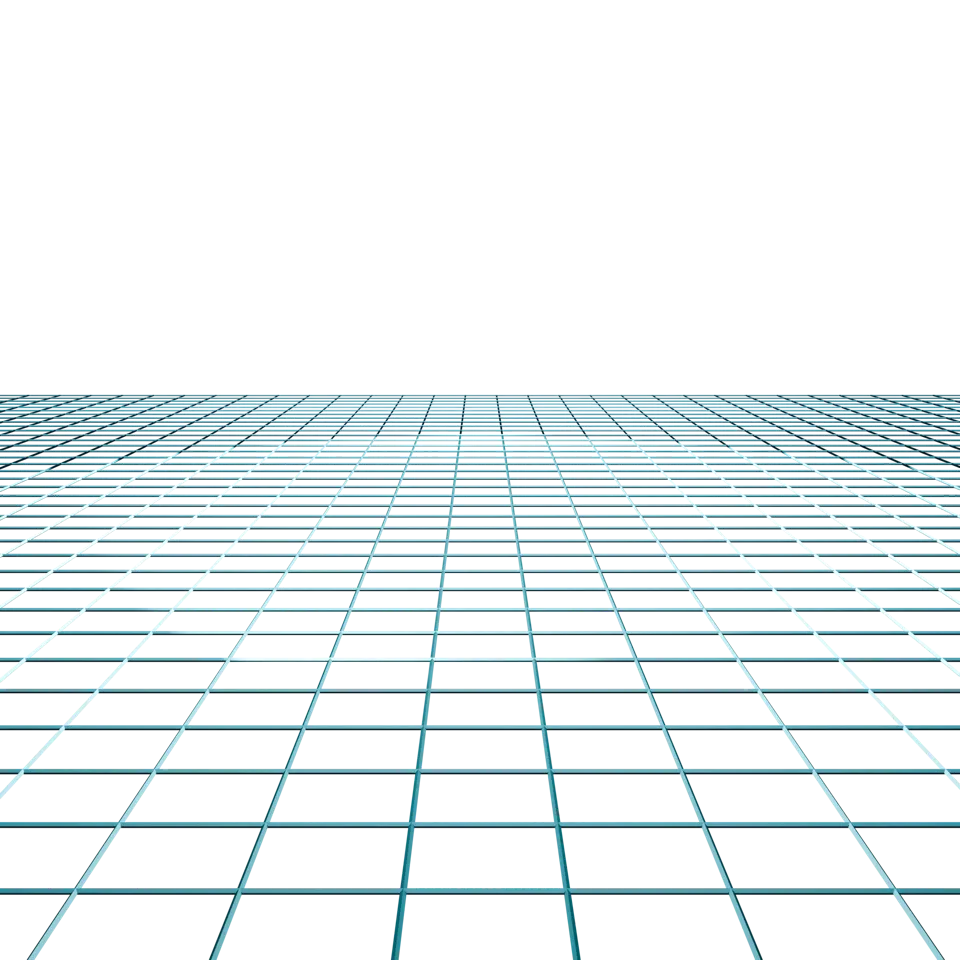
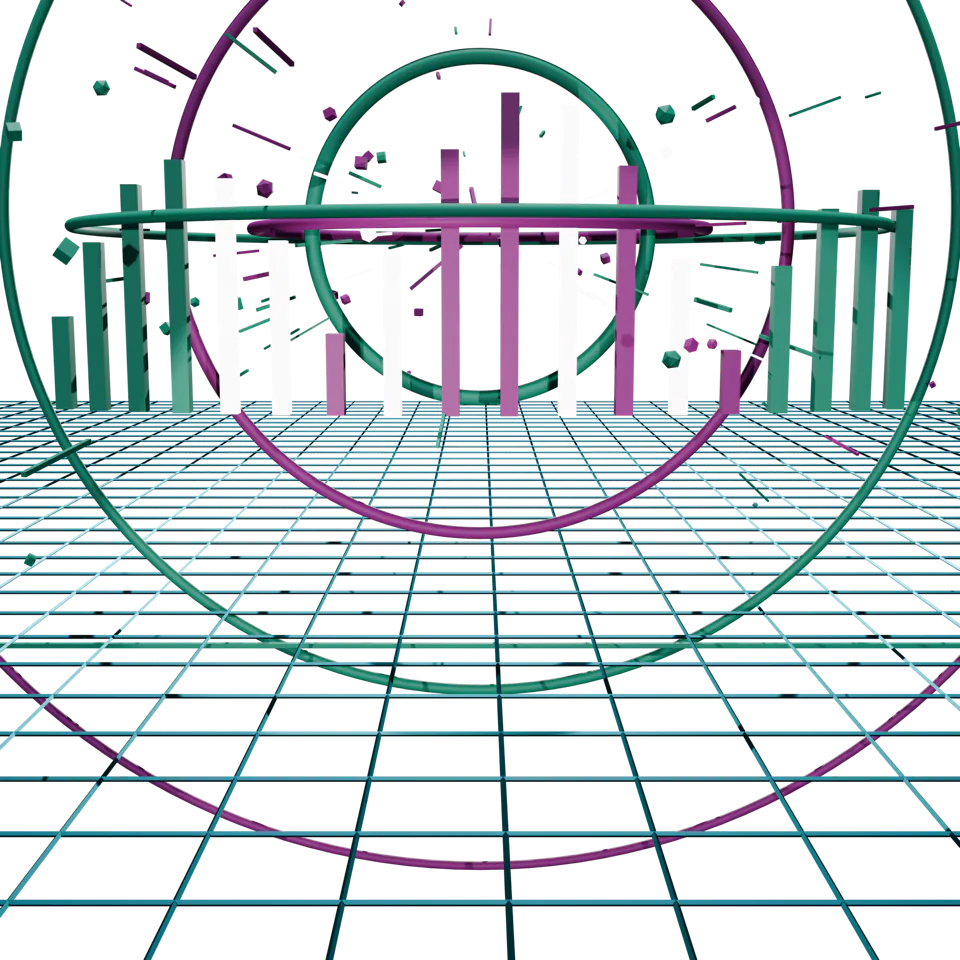
feat: Heroコンポーネントの背景を更新し、グラデーションを追加

diff --git a/src/components/Hero.tsx b/src/components/Hero.tsx
@@ -13,13 +13,18 @@ const Section = styled.section`
   background:
     linear-gradient(
       to bottom,
-      ${colors.bgPrimary} 0%,
-      transparent 40%,
+      rgba(13, 11, 15, 0.25) 0%,
+      transparent 20%,
       transparent 70%,
       ${colors.bgPrimary} 100%
     ),
-    url("/images/hero-bg.webp") center bottom / cover no-repeat
-      ${colors.bgPrimary};
+    url("/images/hero-bg.webp") center bottom / cover no-repeat,
+    linear-gradient(
+      to bottom,
+      #FF2D8A 0%,
+      ${colors.accent} 40%,
+      ${colors.bgPrimary} 70%
+    );
 
   ${media.md} {
     padding: 4rem 2rem;
